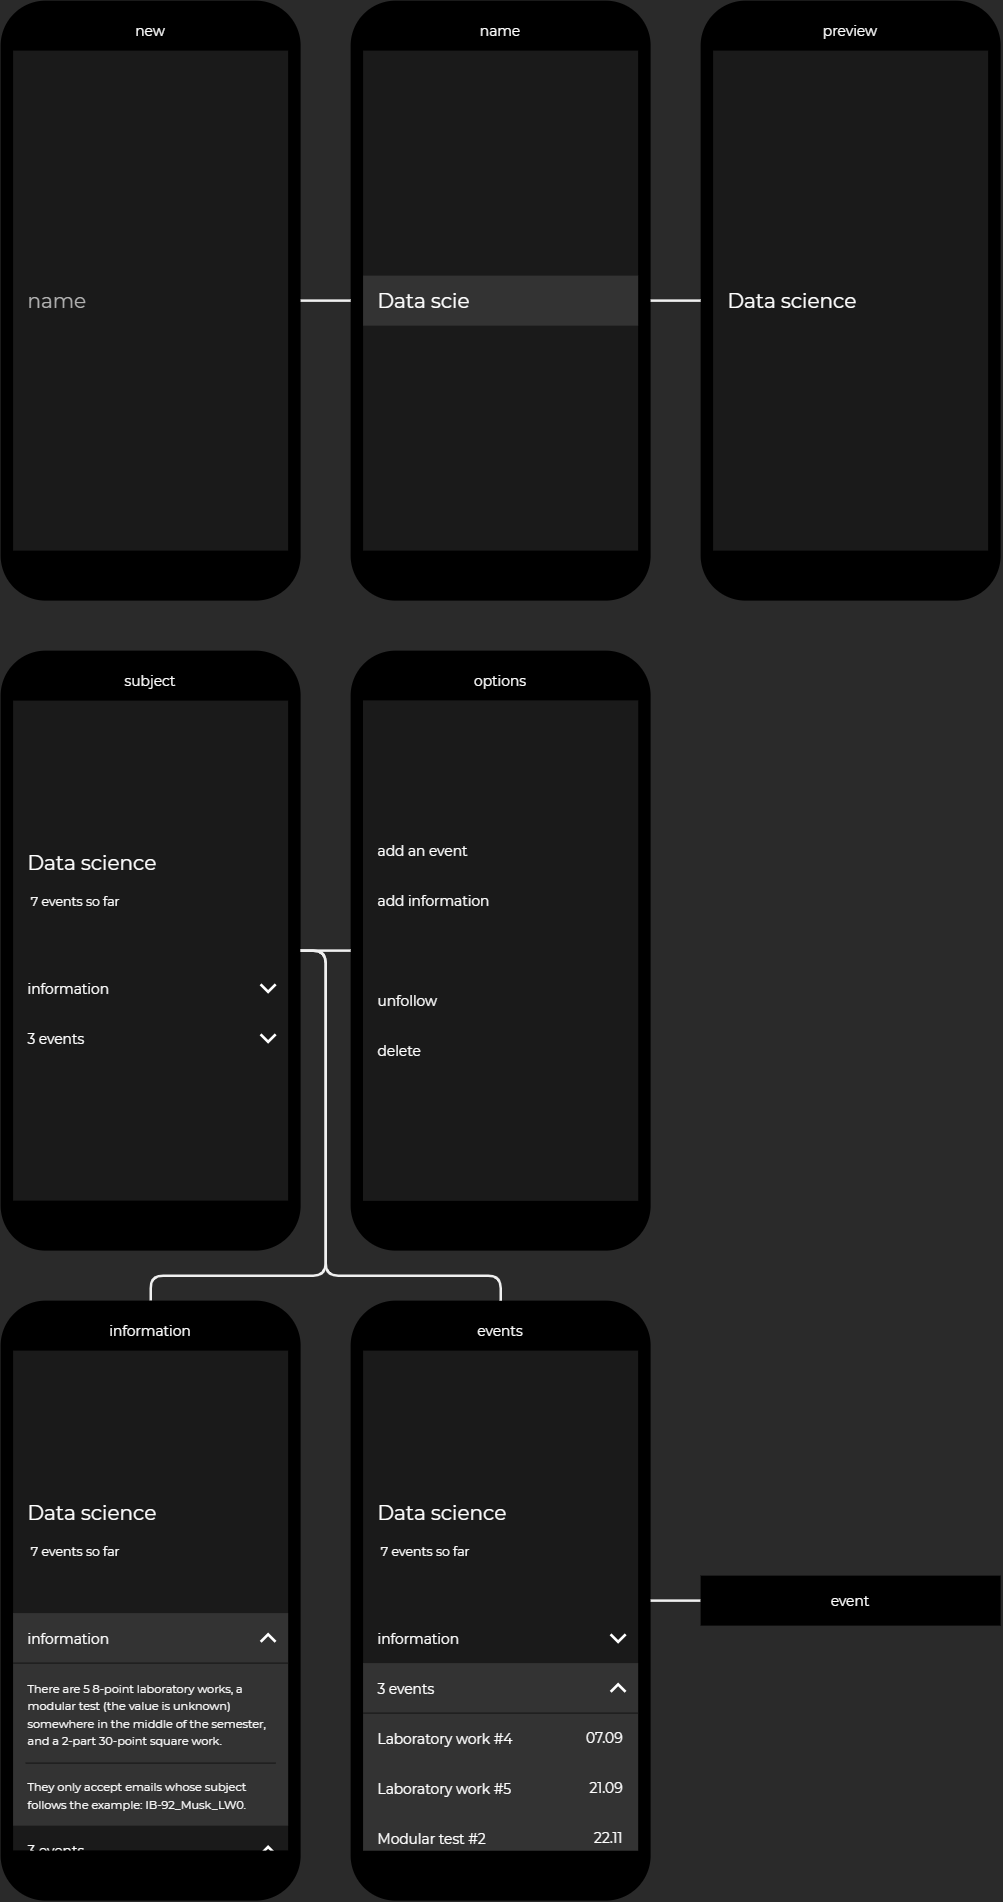
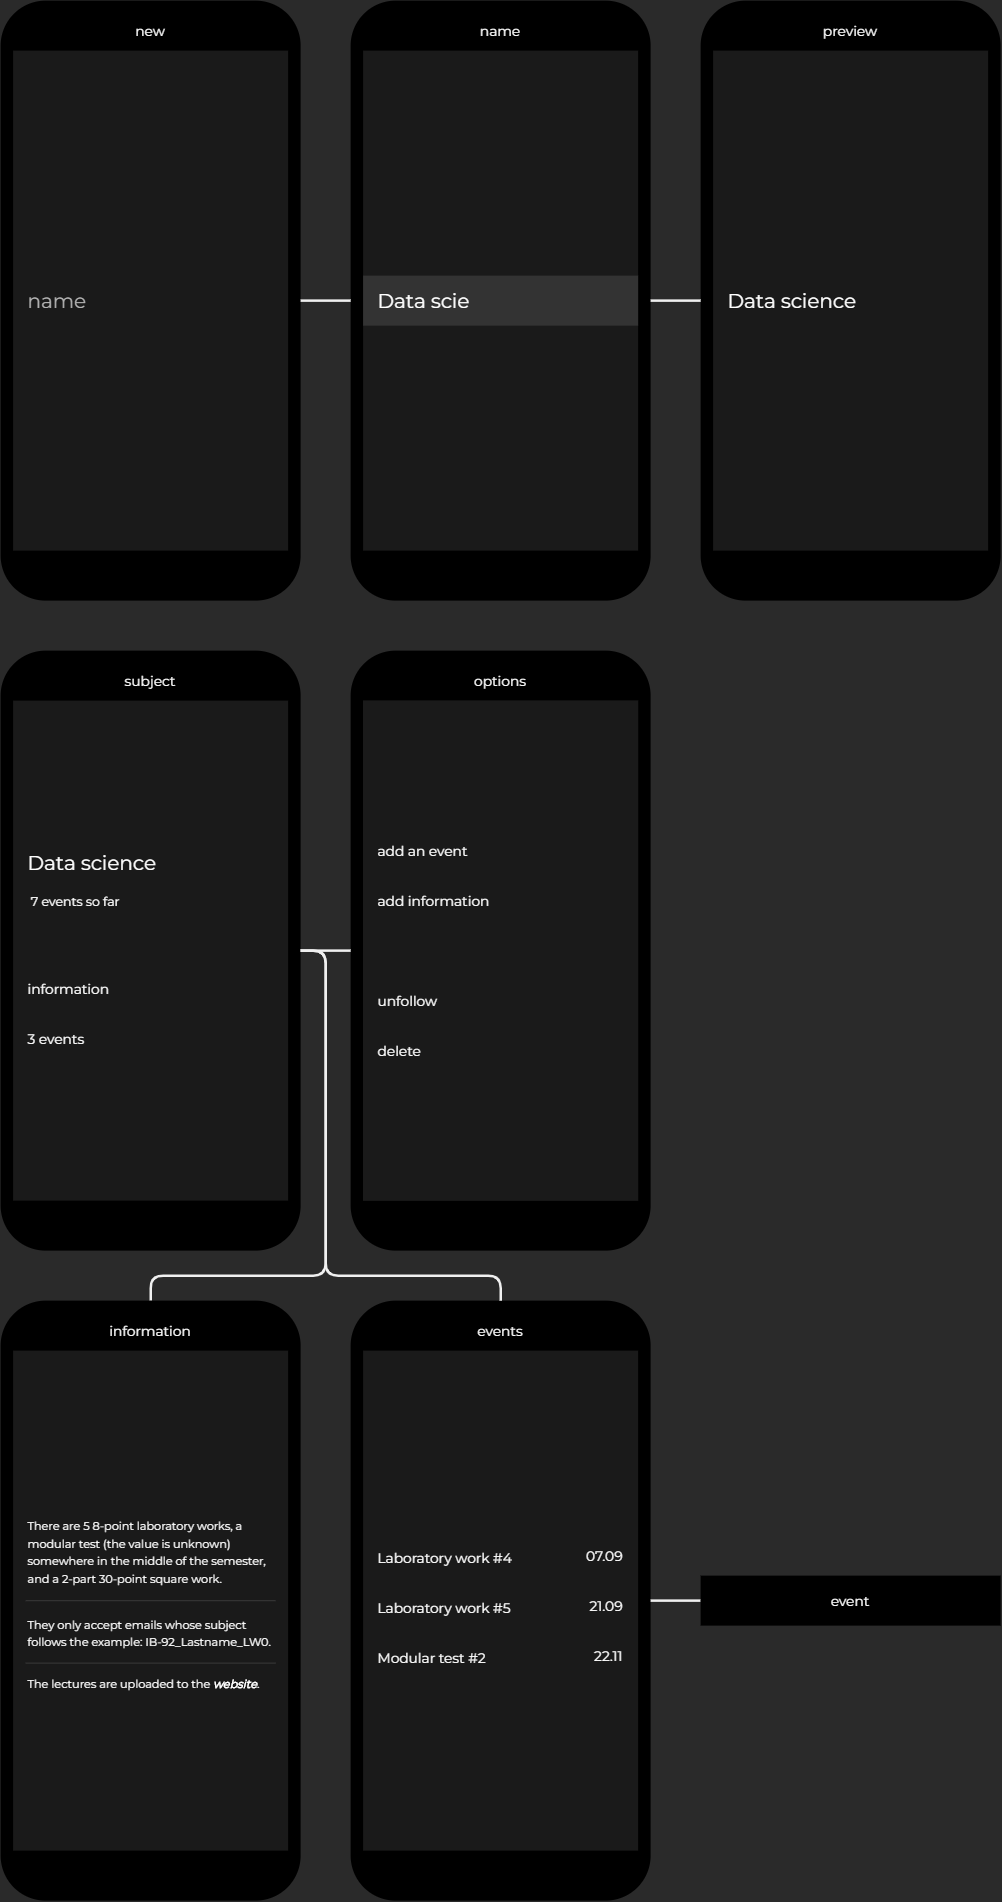
Implement adding subject info, fix fetching it

diff --git a/app/lib/widgets/sections/entity_pages/subject.dart b/app/lib/widgets/sections/entity_pages/subject.dart
@@ -14,6 +14,7 @@ import 'entity.dart';
 class SubjectPage extends StatefulWidget {
 	final Subject _subject;
 	final _nameField = TextEditingController();
+	final _infoField = TextEditingController();
 
 	SubjectPage(this._subject) {
 		_nameField.text = _subject.name;
@@ -69,7 +70,16 @@ class _SubjectPageState extends State<SubjectPage> {
 				),
 				EntityActionButton(
 					text: "add information",
-					action: () {}  // todo: implement
+					action: () => Navigator.of(context).push(MaterialPageRoute(
+						builder: (_) => GestureDetector(
+							onDoubleTap: addInfo,
+							child: Scaffold(
+								body: Center(child: TextField(
+									controller: widget._infoField
+								))
+							)
+						)
+					))  // todo: implement
 				),
 				isFollowed ? EntityActionButton(
 					text: "unfollow",
@@ -94,5 +104,10 @@ class _SubjectPageState extends State<SubjectPage> {
 				children: children
 			)
 		)));
+	}
+
+	void addInfo() {
+		Navigator.of(context).pop();
+		Cloud.addSubjectInfo(widget._subject, widget._infoField.text);
 	}
 }

diff --git a/app/lib/storage/cloud.dart b/app/lib/storage/cloud.dart
@@ -148,7 +148,7 @@ class Cloud {
 		final details = snapshot.data()!;
 
 		subject.totalEventCount = details[Field.totalEventCount.name];
-		subject.info = details[Field.info.name];
+		subject.info = List<String>.from(details[Field.info.name]);
 	}
 
 	/// Initializes the [event]'s detail fields.
@@ -174,6 +174,13 @@ class Cloud {
 		entity: name,
 		details: {Field.totalEventCount.name: 0}
 	);
+
+	/// Adds the [info] to the [subject]'s details.
+	static Future<void> addSubjectInfo(Subject subject, String info) async {
+		_document(Entities.subjects).collection(Entities.details.name).doc(subject.id).update({
+			Field.info.name: FieldValue.arrayUnion([info])
+		});
+	}
 
 	/// Adds an [Event] with the arguments unless it exists.
 	static Future<void> addEvent({

diff --git a/app/lib/widgets/sections/entity_pages/entity.dart b/app/lib/widgets/sections/entity_pages/entity.dart
@@ -48,7 +48,10 @@ class EntityActionButton extends StatelessWidget {
 	Widget build(BuildContext context) {
 		return TextButton(
 			child: Text(text),
-			onPressed: action,
+			onPressed: () {
+				Navigator.of(context).pop();
+				action();
+			},
 			style: const ButtonStyle(alignment: Alignment.centerLeft)
 		);
 	}

diff --git a/app/lib/widgets/home.dart b/app/lib/widgets/home.dart
@@ -45,7 +45,7 @@ class _HomeState extends State<Home> {
 				))
 			),
 			body: _section,
-			drawer: Drawer(
+			drawer: Drawer(  // todo: group tiles
 				child: Column(
 					mainAxisAlignment: MainAxisAlignment.center,
 					children: [
